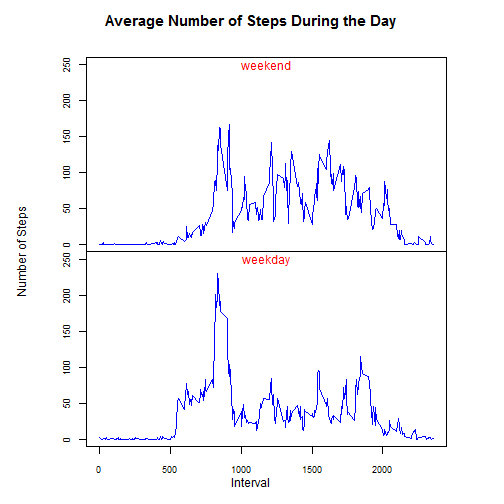
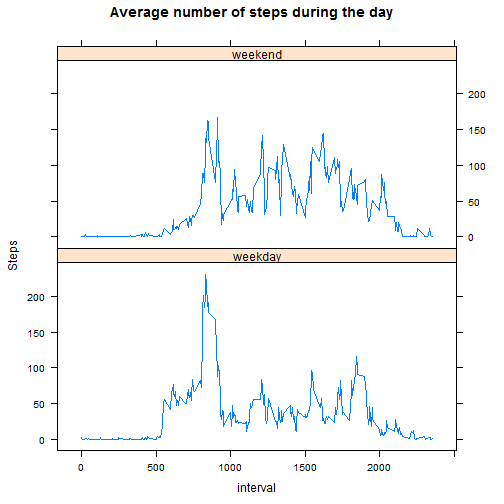
Commit 2
Changes in the files.

diff --git a/PA1_template.html b/PA1_template.html
@@ -232,8 +232,12 @@ variables included in this dataset are:</p>
 
 <p>The first thing to do is to load the packages that will be used in the analysis.</p>
 
-<pre><code class="r">library(plyr, w=FALSE)
-library(dplyr, w=FALSE)
+<pre><code class="r">library(plyr, w=F)
+library(dplyr, w=F)
+library(lattice, w=F)
+</code></pre>
+
+<pre><code>## Warning: package &#39;lattice&#39; was built under R version 3.1.3
 </code></pre>
 
 <h2>Loading and preprocessing the data</h2>
@@ -506,52 +510,27 @@ data_weekdays &lt;- ddply(data_weekend, ~ date, transform, DayWeek = replace_wee
 
 <p>First we need to take the average steps by interval for &ldquo;weekend&rdquo; and &ldquo;weekday&rdquo;:</p>
 
-<pre><code class="r">weekend_interval &lt;- data_weekdays %&gt;% filter(DayWeek == &quot;weekend&quot;) %&gt;% 
-        ddply(.(interval), summarize, steps=mean(steps)) 
-head(weekend_interval)
+<pre><code class="r">weekdays_interval &lt;- ddply(data_weekdays, interval ~ DayWeek, summarize, Steps = mean(steps))
+head(weekdays_interval)
 </code></pre>
 
-<pre><code>##   interval       steps
-## 1        0 0.214622642
-## 2        5 0.042452830
-## 3       10 0.016509434
-## 4       15 0.018867925
-## 5       20 0.009433962
-## 6       25 3.511792453
+<pre><code>##   interval DayWeek      Steps
+## 1        0 weekday 2.25115304
+## 2        0 weekend 0.21462264
+## 3        5 weekday 0.44528302
+## 4        5 weekend 0.04245283
+## 5       10 weekday 0.17316562
+## 6       10 weekend 0.01650943
 </code></pre>
 
-<pre><code class="r">weekday_interval &lt;- data_weekdays %&gt;% filter(DayWeek == &quot;weekday&quot;) %&gt;% 
-        ddply(.(interval), summarize, steps=mean(steps)) 
-head(weekday_interval)
+<p>Then, we can create the painel plot with the function &ldquo;xyplot()&rdquo; from the 
+&ldquo;Lattice&rdquo; package:</p>
+
+<pre><code class="r">xyplot(Steps ~ interval | DayWeek, data = weekdays_interval, layout = c(1,2), 
+       type = &quot;l&quot;, main = &quot;Average number of steps during the day&quot;, )
 </code></pre>
 
-<pre><code>##   interval      steps
-## 1        0 2.25115304
-## 2        5 0.44528302
-## 3       10 0.17316562
-## 4       15 0.19790356
-## 5       20 0.09895178
-## 6       25 1.59035639
-</code></pre>
-
-<p>Then, we can create the painel plot:</p>
-
-<pre><code class="r">par(mfrow=c(2,1))
-par(oma=c(2,2,2,2))
-par(mar=c(0,4,2,2))
-with(weekend_interval, plot(interval, steps, xaxt = &quot;n&quot;, type=&quot;l&quot;, xlab=NA, 
-                            ylab=NA, ylim=c(0,250),cex.axis=0.75, col=&quot;blue&quot;))
-mtext(&quot;weekend&quot;, side=3, line=-1, col=&quot;red&quot;)
-par(mar=c(2,4,0,2))
-with(weekday_interval, plot(interval, steps, xlab=NA, ylab=NA, type=&quot;l&quot;, 
-                            ylim=c(0,250), cex.axis=0.75, col=&quot;blue&quot;))
-mtext(&quot;weekday&quot;, side=3, line=-1, col=&quot;red&quot;)
-mtext(&quot;Average Number of Steps During the Day&quot;, side=3, outer=T, cex=1.25, font=2)
-mtext(&quot;Interval&quot;, side=1, outer=T)
-mtext(&quot;Number of Steps&quot;, side=2, outer=T)
-</code></pre>
-
[2 lines of base64/hex data omitted]
 
 <p>The plot shows that weekdays have a higher peak, with the activity concentrated 
 between the 800 and 1000 intervals. On weekends, the activity is more disperse, 

diff --git a/PA1_template.md b/PA1_template.md
@@ -28,8 +28,13 @@ The first thing to do is to load the packages that will be used in the analysis.
 
 
 ```r
-library(plyr, w=FALSE)
-library(dplyr, w=FALSE)
+library(plyr, w=F)
+library(dplyr, w=F)
+library(lattice, w=F)
+```
+
+```
+## Warning: package 'lattice' was built under R version 3.1.3
 ```
 
 
@@ -362,54 +367,27 @@ First we need to take the average steps by interval for "weekend" and "weekday":
 
 
 ```r
-weekend_interval <- data_weekdays %>% filter(DayWeek == "weekend") %>% 
-        ddply(.(interval), summarize, steps=mean(steps)) 
-head(weekend_interval)
+weekdays_interval <- ddply(data_weekdays, interval ~ DayWeek, summarize, Steps = mean(steps))
+head(weekdays_interval)
 ```
 
 ```
-##   interval       steps
-## 1        0 0.214622642
-## 2        5 0.042452830
-## 3       10 0.016509434
-## 4       15 0.018867925
-## 5       20 0.009433962
-## 6       25 3.511792453
+##   interval DayWeek      Steps
+## 1        0 weekday 2.25115304
+## 2        0 weekend 0.21462264
+## 3        5 weekday 0.44528302
+## 4        5 weekend 0.04245283
+## 5       10 weekday 0.17316562
+## 6       10 weekend 0.01650943
 ```
 
-```r
-weekday_interval <- data_weekdays %>% filter(DayWeek == "weekday") %>% 
-        ddply(.(interval), summarize, steps=mean(steps)) 
-head(weekday_interval)
-```
-
-```
-##   interval      steps
-## 1        0 2.25115304
-## 2        5 0.44528302
-## 3       10 0.17316562
-## 4       15 0.19790356
-## 5       20 0.09895178
-## 6       25 1.59035639
-```
-
-Then, we can create the painel plot:
+Then, we can create the painel plot with the function "xyplot()" from the 
+"Lattice" package:
 
 
 ```r
-par(mfrow=c(2,1))
-par(oma=c(2,2,2,2))
-par(mar=c(0,4,2,2))
-with(weekend_interval, plot(interval, steps, xaxt = "n", type="l", xlab=NA, 
-                            ylab=NA, ylim=c(0,250),cex.axis=0.75, col="blue"))
-mtext("weekend", side=3, line=-1, col="red")
-par(mar=c(2,4,0,2))
-with(weekday_interval, plot(interval, steps, xlab=NA, ylab=NA, type="l", 
-                            ylim=c(0,250), cex.axis=0.75, col="blue"))
-mtext("weekday", side=3, line=-1, col="red")
-mtext("Average Number of Steps During the Day", side=3, outer=T, cex=1.25, font=2)
-mtext("Interval", side=1, outer=T)
-mtext("Number of Steps", side=2, outer=T)
+xyplot(Steps ~ interval | DayWeek, data = weekdays_interval, layout = c(1,2), 
+       type = "l", main = "Average number of steps during the day", )
 ```
 
 ![plot of chunk panel_plot](figure/panel_plot-1.png) 
